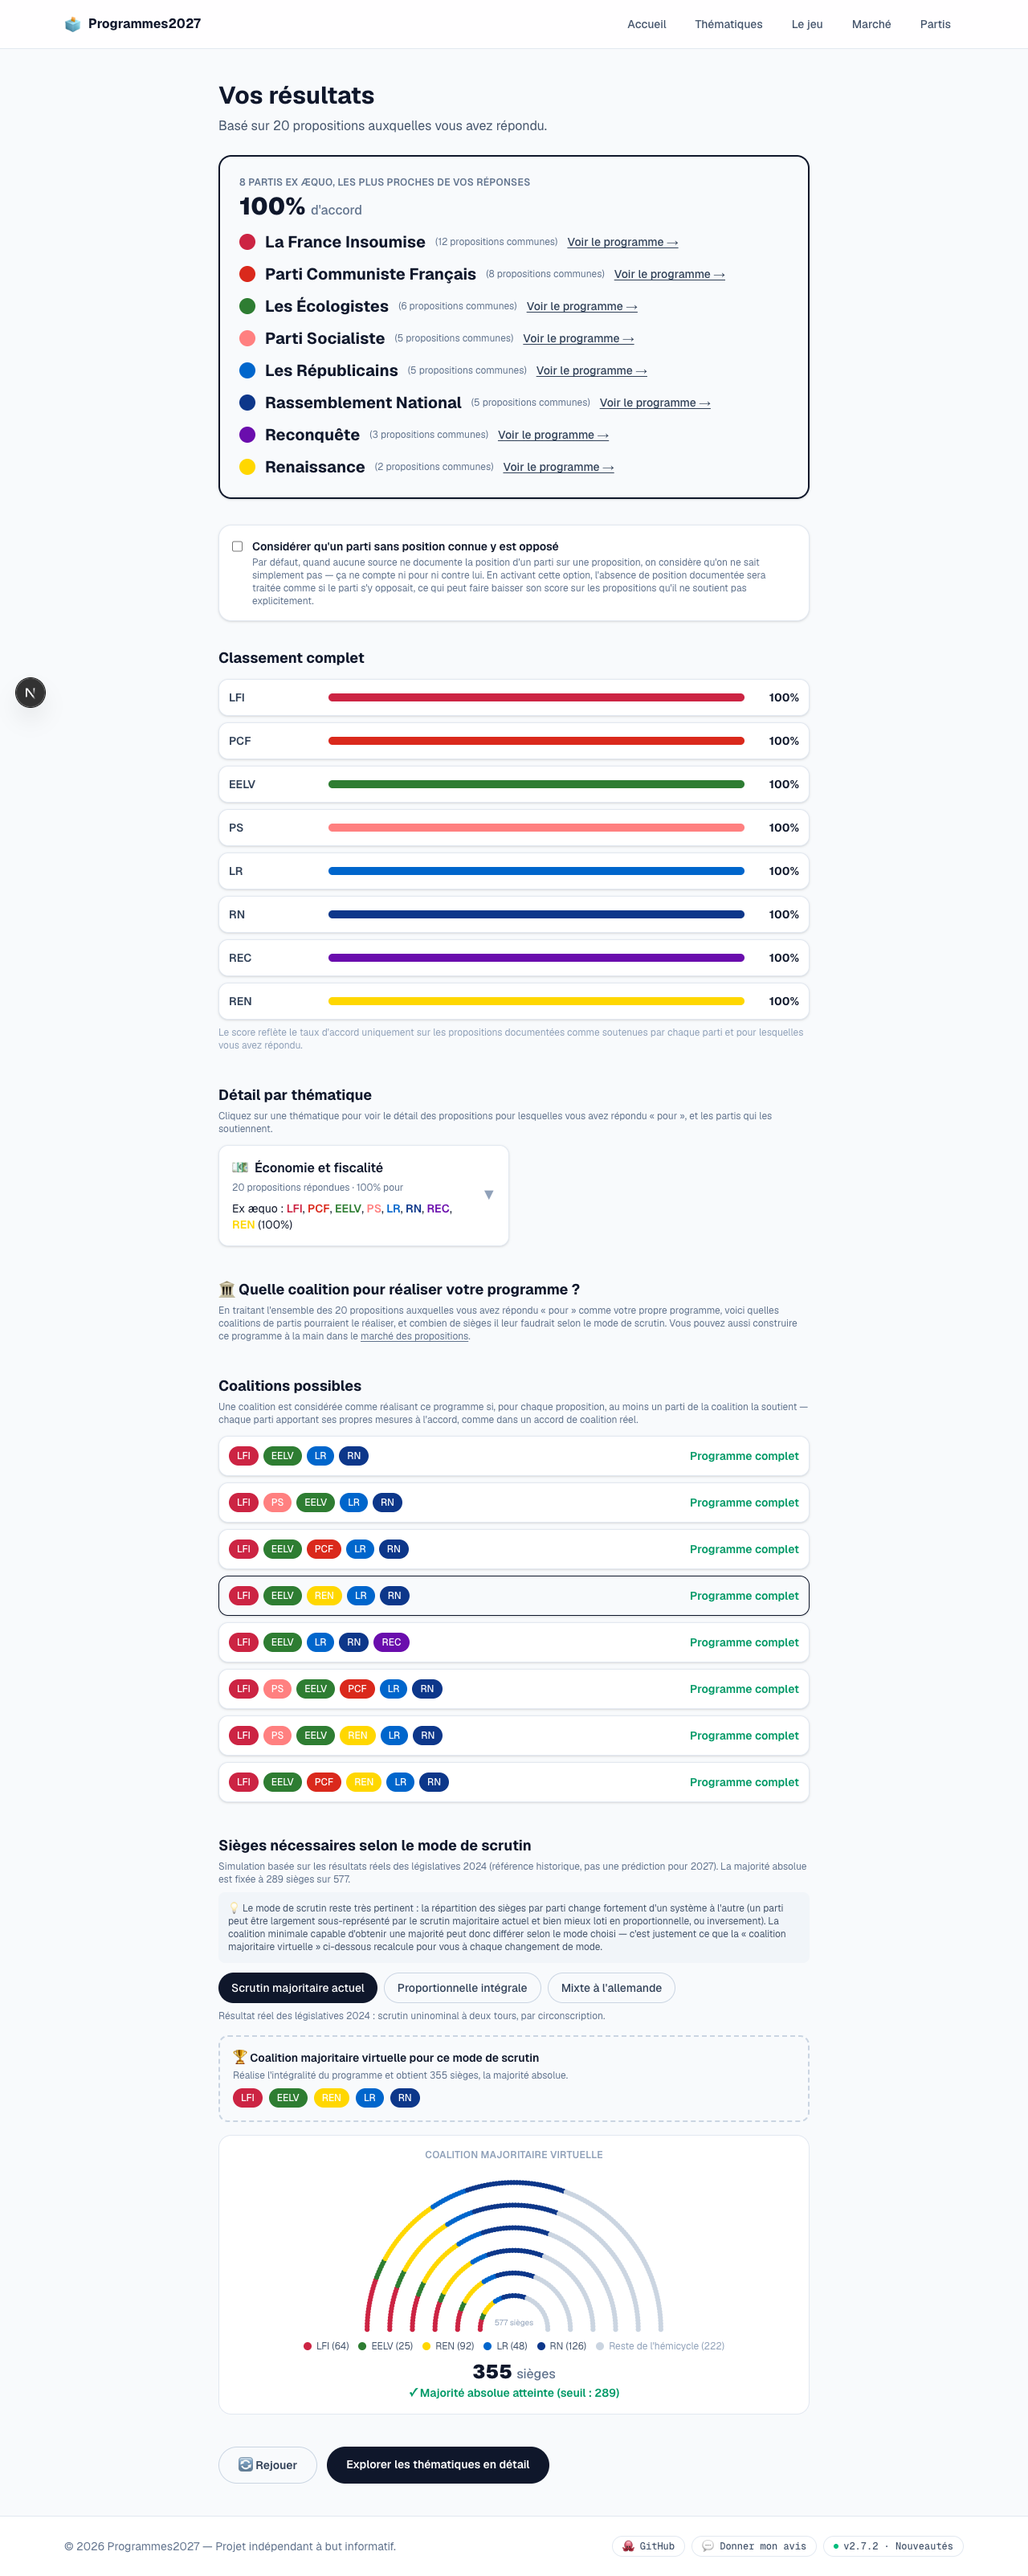
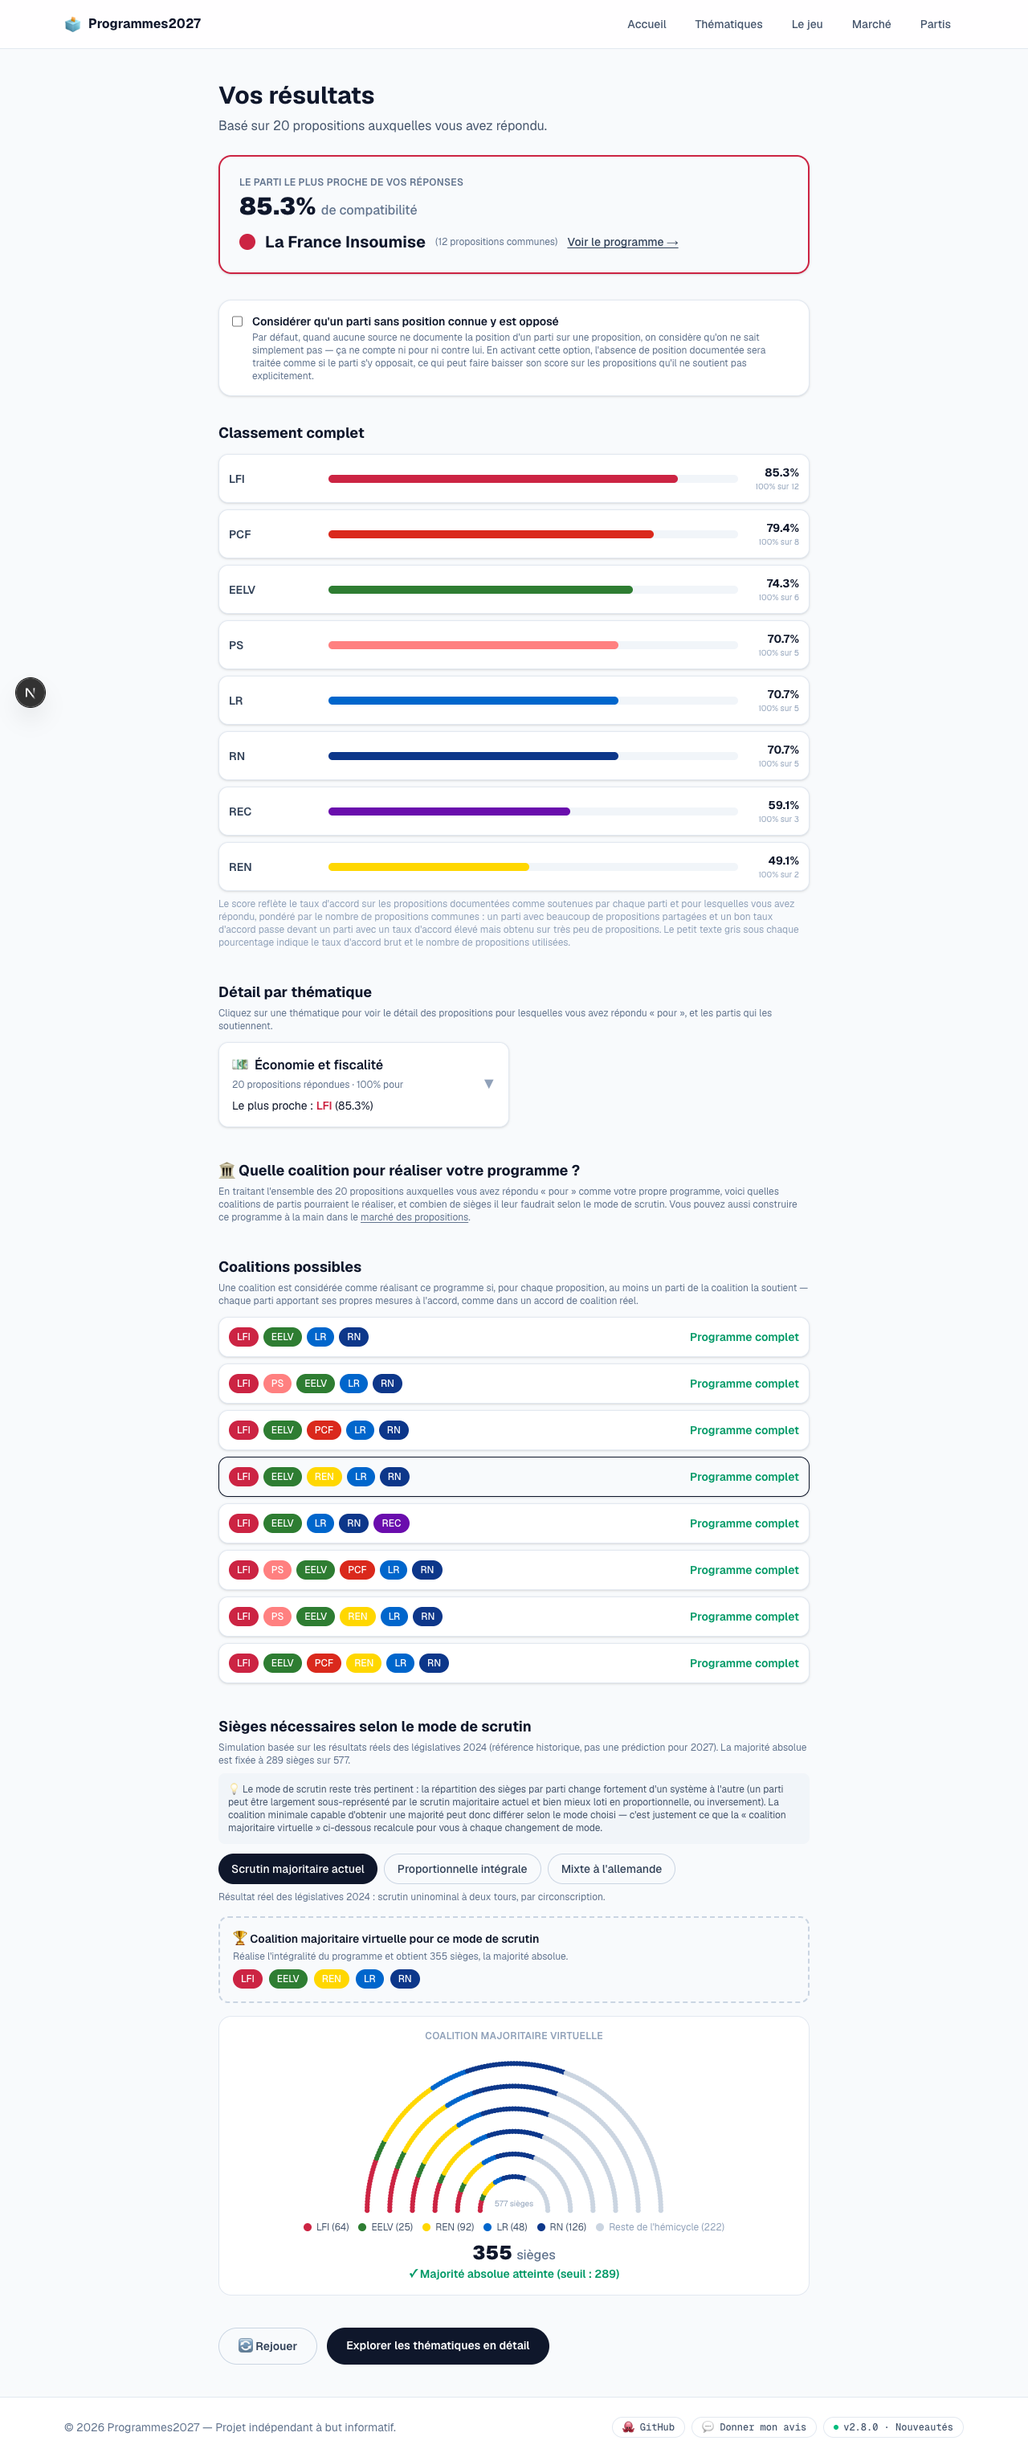
Weight party compatibility scores by sample size to avoid small-sample bias

Changed region(s): [[0.2188, 0.0311, 0.7812, 0.963], [0.0, 0.2485, 0.0625, 0.3107], [0.2188, 0.932, 0.2812, 0.963]]

diff --git a/src/lib/matching.ts b/src/lib/matching.ts
@@ -2,8 +2,44 @@ import { Answer, AnswersMap, Party, PartyId, Proposition, ThemeId } from "@/lib/
 
 export interface PartyScore {
   partyId: PartyId;
+  /**
+   * 0-100 confidence-adjusted compatibility score, used for ranking and
+   * display. See `wilsonLowerBound` below: this is NOT a plain agreement
+   * ratio, it also accounts for how many propositions the score is based
+   * on, so a party with a handful of shared propositions doesn't
+   * outrank a party you agree with on dozens of them just because its
+   * (small-sample) ratio happens to be higher.
+   */
   matchPercent: number; // 0-100
+  /** Plain agreement ratio (matched / answeredRelevant), 0-100, kept for
+   * transparency/debugging but not meant to be used for ranking. */
+  rawAgreementPercent: number;
   answeredRelevant: number; // number of propositions used to compute the score
+}
+
+/**
+ * Lower bound of the Wilson score confidence interval for a binomial
+ * proportion, expressed as a percentage. Given `matched` successes out of
+ * `n` trials, this returns a conservative estimate of the "true" agreement
+ * rate that gets closer to the raw ratio as `n` grows, but stays cautious
+ * when `n` is small.
+ *
+ * This is the standard technique used to rank things by "rating" without
+ * letting a handful of 5-star reviews outrank a product with thousands of
+ * mostly-positive ones (e.g. Reddit's "best" comment sorting). Here it
+ * prevents a party you agree with on only 2-3 propositions from
+ * outranking one you agree with on dozens, just because its tiny sample
+ * happens to be 100% "pour".
+ */
+function wilsonLowerBound(matched: number, n: number, z = 1.44): number {
+  if (n === 0) return 0;
+  const phat = matched / n;
+  const z2 = z * z;
+  const denominator = 1 + z2 / n;
+  const center = phat + z2 / (2 * n);
+  const margin = z * Math.sqrt((phat * (1 - phat) + z2 / (4 * n)) / n);
+  const lowerBound = (center - margin) / denominator;
+  return Math.round(Math.max(0, lowerBound) * 1000) / 10;
 }
 
 export interface ThemeStat {
@@ -71,7 +107,12 @@ export function computePartyScores(
     );
     for (const partyId of partyIds) {
       if (answeredProps.length === 0) {
-        scores.push({ partyId, matchPercent: 0, answeredRelevant: 0 });
+        scores.push({
+          partyId,
+          matchPercent: 0,
+          rawAgreementPercent: 0,
+          answeredRelevant: 0,
+        });
         continue;
       }
       const matched = answeredProps.filter((p) => {
@@ -81,7 +122,9 @@ export function computePartyScores(
       }).length;
       scores.push({
         partyId,
-        matchPercent: Math.round((matched / answeredProps.length) * 1000) / 10,
+        matchPercent: wilsonLowerBound(matched, answeredProps.length),
+        rawAgreementPercent:
+          Math.round((matched / answeredProps.length) * 1000) / 10,
         answeredRelevant: answeredProps.length,
       });
     }
@@ -93,13 +136,19 @@ export function computePartyScores(
           (answers[p.id] === "pour" || answers[p.id] === "contre")
       );
       if (relevant.length === 0) {
-        scores.push({ partyId, matchPercent: 0, answeredRelevant: 0 });
+        scores.push({
+          partyId,
+          matchPercent: 0,
+          rawAgreementPercent: 0,
+          answeredRelevant: 0,
+        });
         continue;
       }
       const matched = relevant.filter((p) => answers[p.id] === "pour").length;
       scores.push({
         partyId,
-        matchPercent: Math.round((matched / relevant.length) * 1000) / 10,
+        matchPercent: wilsonLowerBound(matched, relevant.length),
+        rawAgreementPercent: Math.round((matched / relevant.length) * 1000) / 10,
         answeredRelevant: relevant.length,
       });
     }

diff --git a/src/components/ResultsView.tsx b/src/components/ResultsView.tsx
@@ -113,7 +113,7 @@ export function ResultsView() {
           <p className="mt-1 text-3xl font-black text-slate-900">
             {topPercent}%{" "}
             <span className="text-base font-medium text-slate-500">
-              d&apos;accord
+              de compatibilité
             </span>
           </p>
           <div className="mt-3 flex flex-col gap-3">
@@ -191,17 +191,27 @@ export function ResultsView() {
                     }}
                   />
                 </div>
-                <span className="w-14 flex-shrink-0 text-right text-sm font-bold text-slate-900">
-                  {s.matchPercent}%
-                </span>
+                <div className="flex w-16 flex-shrink-0 flex-col items-end">
+                  <span className="text-sm font-bold text-slate-900">
+                    {s.matchPercent}%
+                  </span>
+                  <span className="text-[10px] text-slate-400">
+                    {s.rawAgreementPercent}% sur {s.answeredRelevant}
+                  </span>
+                </div>
               </Link>
             );
           })}
         </div>
         <p className="mt-2 text-xs text-slate-400">
           {assumeOpposition
-            ? "Le score reflète le taux d'accord sur l'ensemble des propositions auxquelles vous avez répondu : une proposition non soutenue par un parti est traitée comme une position implicite « contre » de ce parti."
-            : "Le score reflète le taux d'accord uniquement sur les propositions documentées comme soutenues par chaque parti et pour lesquelles vous avez répondu."}
+            ? "Le score reflète le taux d'accord sur l'ensemble des propositions auxquelles vous avez répondu (une proposition non soutenue par un parti est traitée comme une position implicite « contre » de ce parti), pondéré par le nombre de propositions communes : "
+            : "Le score reflète le taux d'accord sur les propositions documentées comme soutenues par chaque parti et pour lesquelles vous avez répondu, pondéré par le nombre de propositions communes : "}
+          un parti avec beaucoup de propositions partagées et un bon taux
+          d&apos;accord passe devant un parti avec un taux d&apos;accord
+          élevé mais obtenu sur très peu de propositions. Le petit texte
+          gris sous chaque pourcentage indique le taux d&apos;accord brut
+          et le nombre de propositions utilisées.
         </p>
       </section>
 
